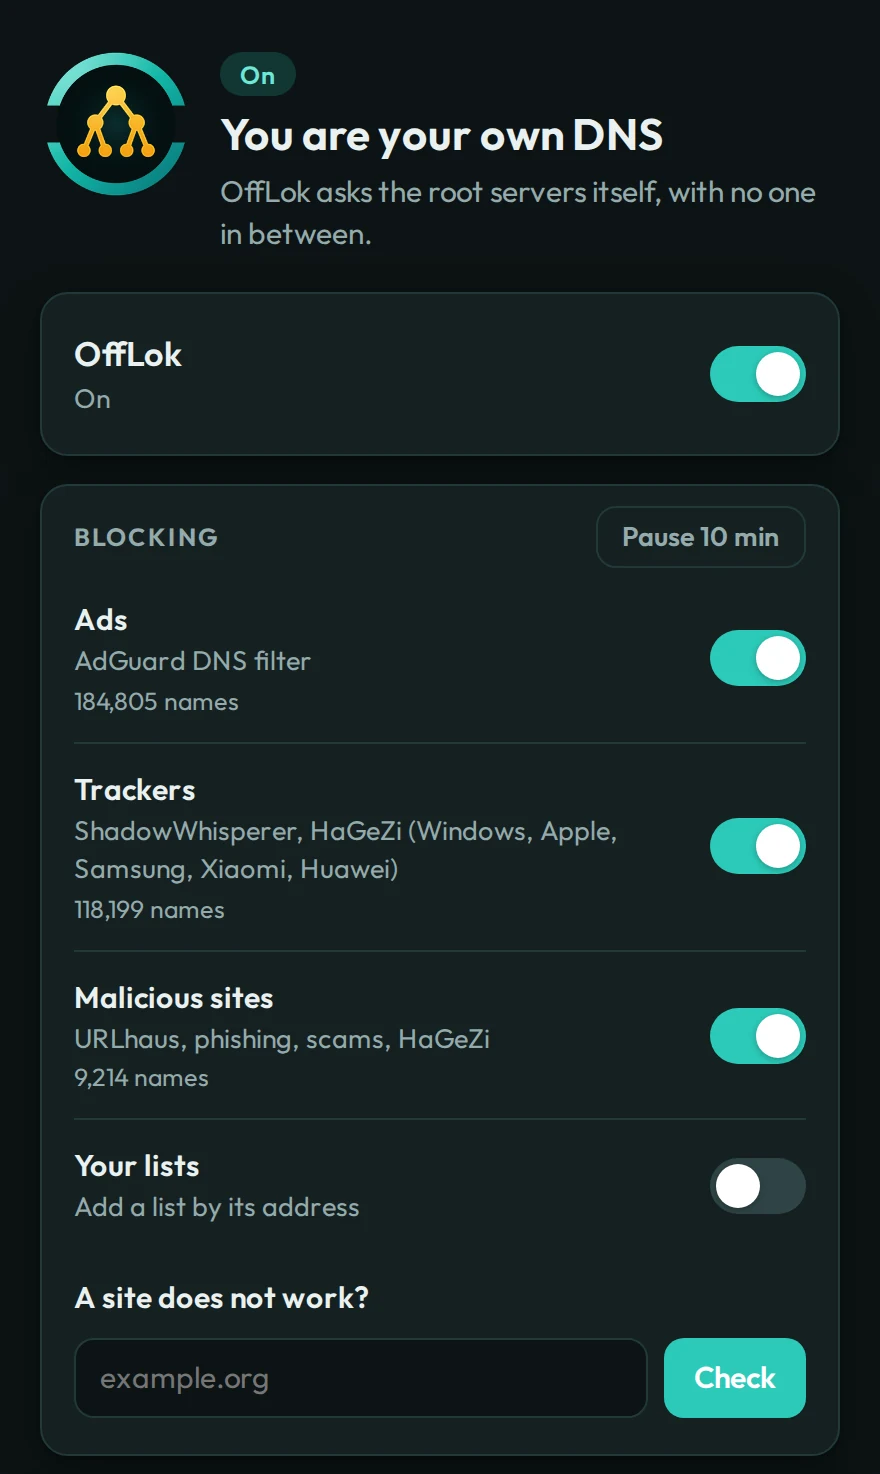
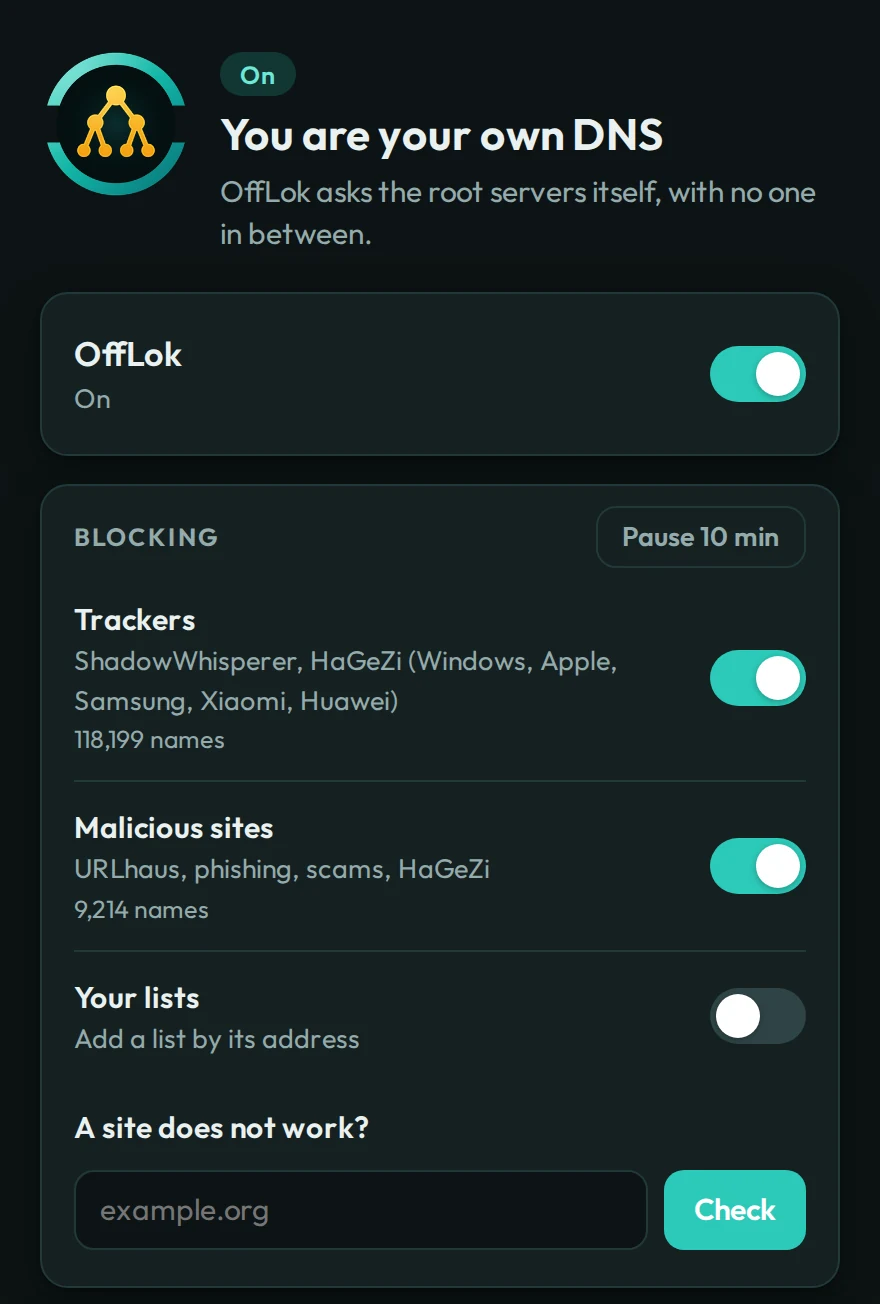
Website: no ad blocking shown, the Google Play version has none and Google reviews the site
The blocking card and the FAQ name trackers, malicious sites and one's own lists; the window's pictures are taken
without the Ads row (site/app-shots.cjs leaves it out).

diff --git a/site/index.html b/site/index.html
@@ -146,7 +146,7 @@
           <h2>Le DNS, c'est l'annuaire d'Internet</h2>
           <p>Sur Internet, chaque site est rangé à une adresse faite de chiffres, comme <code>185.15.58.224</code>. Pratique pour les machines, impossible à retenir pour nous.</p>
           <p>Le <strong>DNS</strong> (pour <em>Domain Name System</em>, le « système des noms de domaine ») fait le lien : tu tapes un nom, il trouve le numéro. Exactement comme un annuaire téléphonique.</p>
-          <p>Ça se passe des centaines de fois par jour sans que tu le voies : chaque site, chaque appli, chaque image, chaque pub et chaque mise à jour commence par une question au DNS.</p>
+          <p>Ça se passe des centaines de fois par jour sans que tu le voies : chaque site, chaque appli, chaque image, chaque vidéo et chaque mise à jour commence par une question au DNS.</p>
         </div>
         <div class="lookup" data-reveal aria-label="Exemple : ce qui se passe quand tu ouvres un site">
           <div class="urlbar"><svg class="icon"><use href="#i-lock"/></svg>fr.wikipedia.org<span class="caret"></span></div>
@@ -257,8 +257,8 @@
         </article>
         <article class="feature" data-reveal>
           <span class="ico"><svg class="icon"><use href="#i-ban"/></svg></span>
-          <h3>Moins de pubs, si tu veux</h3>
-          <p>Le blocage des pubs, des pisteurs et des sites piégés est inclus, coupé au départ : un interrupteur par catégorie, une pause de 10 minutes, et « Faire confiance » pour un site qui te manque.</p>
+          <h3>Moins de pisteurs, si tu veux</h3>
+          <p>Le blocage des pisteurs et des sites piégés est inclus, coupé au départ : un interrupteur par catégorie, tes propres listes, une pause de 10 minutes, et « Faire confiance » pour un site qui te manque.</p>
         </article>
         <article class="feature" data-reveal>
           <span class="ico"><svg class="icon"><use href="#i-code"/></svg></span>
@@ -397,7 +397,7 @@ sha256sum --ignore-missing -c SHA256SUMS</pre><button type="button" class="copy"
         <div class="app-frame">
           <picture>
             <source srcset="img/app-fr-dark.webp" media="(prefers-color-scheme: dark)">
-            <img src="img/app-fr-light.webp" alt="La fenêtre d'OffLok : « Tu es ton propre DNS », l'interrupteur principal, et le blocage des pubs, des pisteurs et des sites piégés." width="880" height="1474" loading="lazy">
+            <img src="img/app-fr-light.webp" alt="La fenêtre d'OffLok : « Tu es ton propre DNS », l'interrupteur principal, et le blocage des pisteurs et des sites piégés." width="880" height="1304" loading="lazy">
           </picture>
         </div>
         <p class="app-caption">La fenêtre d'OffLok, à un clic de son icône.</p>
@@ -506,8 +506,8 @@ sha256sum --ignore-missing -c SHA256SUMS</pre><button type="button" class="copy"
           <div class="answer"><p>Ces réseaux bloquent souvent l'accès direct à la racine, ou demandent de se connecter sur une page. OffLok passe alors par le DNS du réseau, le temps de revenir (icône à pastille orange).</p><p>Tu préfères ne jamais passer par lui ? Active le mode strict : le bouton « Se connecter à ce réseau » ouvre la porte 5 minutes, le temps de la page de connexion. Tu peux aussi indiquer un résolveur chiffré de secours (DNS over TLS), utilisé avant le DNS du réseau.</p></div>
         </details>
         <details>
-          <summary>Est-ce que ça bloque les pubs ?<svg class="icon"><use href="#i-plus"/></svg></summary>
-          <div class="answer"><p>Si tu veux. Le blocage est inclus mais coupé au départ, en quatre interrupteurs : les pubs, les pisteurs, les sites piégés (hameçonnage, arnaques) et tes propres listes. Les listes viennent de leurs auteurs (AdGuard, HaGeZi, URLhaus et d'autres), téléchargées une fois par jour par ton ordinateur.</p><p>Un site ne marche plus ? « Vérifier » te dit s'il est bloqué et par quelle liste, et « Faire confiance à ce site » le débloque pour de bon.</p></div>
+          <summary>Est-ce que ça bloque des sites ?<svg class="icon"><use href="#i-plus"/></svg></summary>
+          <div class="answer"><p>Si tu veux. Le blocage est inclus mais coupé au départ, en trois interrupteurs : les pisteurs, les sites piégés (hameçonnage, arnaques) et tes propres listes. Les listes viennent de leurs auteurs (HaGeZi, URLhaus et d'autres), téléchargées une fois par jour par ton ordinateur.</p><p>Un site ne marche plus ? « Vérifier » te dit s'il est bloqué et par quelle liste, et « Faire confiance à ce site » le débloque pour de bon.</p></div>
         </details>
         <details>
           <summary>C'est gratuit ? Où est le piège ?<svg class="icon"><use href="#i-plus"/></svg></summary>

diff --git a/site/en/index.html b/site/en/index.html
@@ -146,7 +146,7 @@
           <h2>DNS is the internet's address book</h2>
           <p>On the internet, every site lives at an address made of numbers, such as <code>185.15.58.224</code>. Handy for machines, impossible for us to remember.</p>
           <p><strong>DNS</strong> (the <em>Domain Name System</em>) makes the link: you type a name, it finds the number. Just like a phone book.</p>
-          <p>It happens hundreds of times a day without you noticing: every site, every app, every picture, every ad and every update starts with a question to the DNS.</p>
+          <p>It happens hundreds of times a day without you noticing: every site, every app, every picture, every video and every update starts with a question to the DNS.</p>
         </div>
         <div class="lookup" data-reveal aria-label="Example: what happens when you open a site">
           <div class="urlbar"><svg class="icon"><use href="#i-lock"/></svg>en.wikipedia.org<span class="caret"></span></div>
@@ -257,8 +257,8 @@
         </article>
         <article class="feature" data-reveal>
           <span class="ico"><svg class="icon"><use href="#i-ban"/></svg></span>
-          <h3>Fewer ads, if you want</h3>
-          <p>Blocking ads, trackers and malicious sites is included, off at first: one switch per category, a 10-minute pause, and “Trust this site” for one you miss.</p>
+          <h3>Fewer trackers, if you want</h3>
+          <p>Blocking trackers and malicious sites is included, off at first: one switch per category, your own lists, a 10-minute pause, and “Trust this site” for one you miss.</p>
         </article>
         <article class="feature" data-reveal>
           <span class="ico"><svg class="icon"><use href="#i-code"/></svg></span>
@@ -397,7 +397,7 @@ sha256sum --ignore-missing -c SHA256SUMS</pre><button type="button" class="copy"
         <div class="app-frame">
           <picture>
             <source srcset="../img/app-en-dark.webp" media="(prefers-color-scheme: dark)">
-            <img src="../img/app-en-light.webp" alt="OffLok's window: “You are your own DNS”, the main switch, and blocking of ads, trackers and malicious sites." width="880" height="1474" loading="lazy">
+            <img src="../img/app-en-light.webp" alt="OffLok's window: “You are your own DNS”, the main switch, and blocking of trackers and malicious sites." width="880" height="1304" loading="lazy">
           </picture>
         </div>
         <p class="app-caption">OffLok's window, one click on its icon away.</p>
@@ -506,8 +506,8 @@ sha256sum --ignore-missing -c SHA256SUMS</pre><button type="button" class="copy"
           <div class="answer"><p>These networks often block direct access to the root, or ask you to sign in on a page. OffLok then goes through the network's DNS until it can come back (the icon with an orange dot).</p><p>Would you rather never go through it? Turn on strict mode: “Sign in to this network” opens the door for 5 minutes, the time of the sign-in page. You can also set an encrypted fallback resolver (DNS over TLS), used before the network's DNS.</p></div>
         </details>
         <details>
-          <summary>Does it block ads?<svg class="icon"><use href="#i-plus"/></svg></summary>
-          <div class="answer"><p>If you want. Blocking is included but off at first, with four switches: ads, trackers, malicious sites (phishing, scams) and your own lists. The lists come from their authors (AdGuard, HaGeZi, URLhaus and others), downloaded once a day by your computer.</p><p>A site stopped working? “Check” tells you whether it is blocked and by which list, and “Trust this site” unblocks it for good.</p></div>
+          <summary>Does it block sites?<svg class="icon"><use href="#i-plus"/></svg></summary>
+          <div class="answer"><p>If you want. Blocking is included but off at first, with three switches: trackers, malicious sites (phishing, scams) and your own lists. The lists come from their authors (HaGeZi, URLhaus and others), downloaded once a day by your computer.</p><p>A site stopped working? “Check” tells you whether it is blocked and by which list, and “Trust this site” unblocks it for good.</p></div>
         </details>
         <details>
           <summary>It's free? What's the catch?<svg class="icon"><use href="#i-plus"/></svg></summary>
